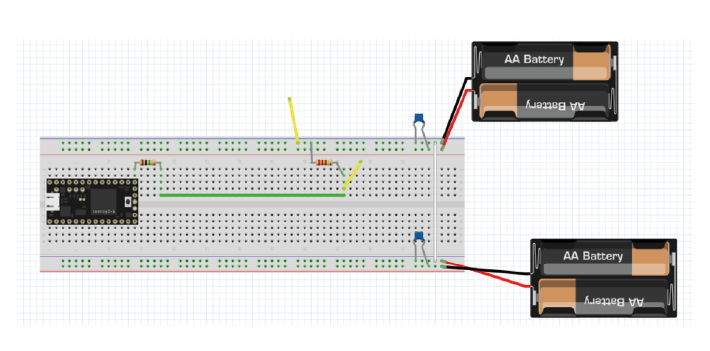
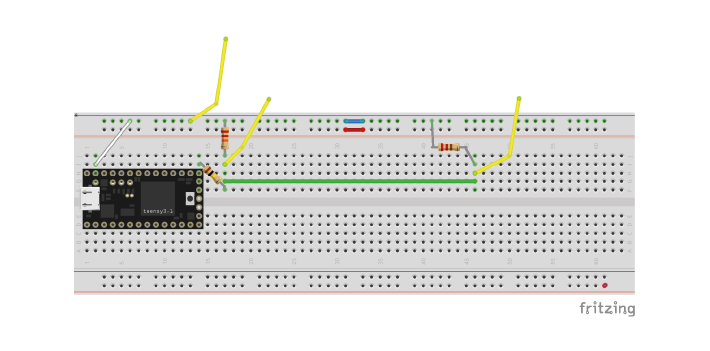
new exercise day 2

diff --git a/source/Materials/exday2TA.rst b/source/Materials/exday2TA.rst
@@ -20,7 +20,7 @@ Exercises Day 2 TA
 1. Impedance Ratios
 ##############################################
 Yesterday, we made the equivalent circuit of a polarising electrode connected to ground.
-Here is that circuit, with shunt capacitance added of 100 pF:
+Here is that circuit, with shunt impedance added of 100 pF:
 
 .. image:: ../_static/images/EEA/day2circuit.png
   :align: center
@@ -28,7 +28,7 @@ Here is that circuit, with shunt capacitance added of 100 pF:
 
 .. container:: exercise
 
-  1A. What is shunt capacitance?
+  1A. What is shunt impedance?
 
   1B. What % of our signal are we losing between Vec and Vin? Why?
 
@@ -42,7 +42,7 @@ Here is that circuit, with shunt capacitance added of 100 pF:
 
    1B: Should be 50 uV left of our 5V signal.
 
-   1C: The capacitor of our electrode and the shunt capacitance are forming a voltage divider. Changing the impedance ratio changes the Vin.
+   1C: The capacitor of our electrode and the shunt impedance are forming a voltage divider. Changing the impedance ratio changes the Vin.
 
    1D: Gold plated electrode circuit: increases capacitance, decreases impedance.  https://tinyurl.com/y5y8chql
    Students can get impedance and capacitance mixed up and forget they go in opposite directions.
@@ -50,7 +50,7 @@ Here is that circuit, with shunt capacitance added of 100 pF:
 
 Drawing Current
 ***********************************
-Let's do a recording! We'll take our electrode, and attach it through a long wire to a recording system (the recording system has an analog to digital converter, ADC, and a recording computer).
+Let's do a recording! We'll take our electrode, and attach it through a long wire to a recording system (the recording system has an analog to digital converter, ADC, and a recording computer). The leakage resistance here is because the recording system is also connected to ground.
 
 .. image:: ../_static/images/EEA/day2withac.png
   :align: center
@@ -73,24 +73,78 @@ Let's do a recording! We'll take our electrode, and attach it through a long wir
 
 2. Operational Amplifiers
 ###################################
-Let’s build this circuit in real life, on the breadboard. We’ll treat the ‘Blink’ example as our neuronal data and see what happens to this signal if we just have a wire, and then see the effect of replacing this wire with an op-amp.
+Let’s build a slightly simplified version of these circuits in real life, on the breadboard. We’ll treat the ‘Blink’ example as our neuronal data and see what happens to this signal if we just have a wire, and then see the effect of replacing this wire with an op-amp. We'll simplify our electrode circuit to a single resistor.
 
-* 'Neuron'  = Digital output from Teensy
-* 'Electrode' = 1 MOhm resistor
+.. image:: ../_static/images/EEA/eea_fig-41.png
+  :align: center
+  :target: https://tinyurl.com/y5b7nfuv
+
+
+* 'Neuron'  = Digital blink output from Teensy
+* 'Electrode' = 100 kOhm resistor
 * 'Shunt' = 22kOhm resistor
+* 'Leak' = 220Ohm resistor
+* 'Recording system' = the Picoscope
+
+Without an amplifier
+************************************
+
+.. container:: exercise
+
+  2A.	Upload the Blink example to your teensy (or just run it if still loaded).
+
+  Build the circuit below:
+
+  * Send the Teensy output through a 100 KOhm resistor. This makes it behave a bit like a biological signal coming from an electrode.
+
+  *	A 22kOhm resistor to ground simulates shunt impedance.
+
+  * A 220 Ohm resistor to ground simulates that your acquisition system is connected to ground (via some resistance).
+
+  *	The yellow wires are 'readout' wires to connect your oscilloscope to.
+
+  .. image:: ../_static/images/EEA/eea_fig-39.png
+    :align: center
+
+  .. image:: ../_static/images/EEA/eea_fig-38.png
+    :align: center
+
+  2B.	Now measure the output with the oscilloscope at the points marked by red arrows in the image below, and complete the first column of the table below:
+
+  .. list-table::
+     :width: 80%
+     :widths: 20 20 20
+     :header-rows: 1
+     :align: left
+
+     * - (+) Probe Location
+       - Long Wire
+       - Op-Amp
+     * - 1. Teensy Pin 13
+       -
+       -
+     * - 2. Readout Wire 1
+       -
+       -
+     * - 3. Readout Wire 2
+       -
+       -
+
+  2C. How much signal is lost?
+
 
 Build voltage rails
 ***********************************
 .. warning::
   Make sure that the pins from the batteries do not touch, and if they’re not in use, best to put some tape on them so they don’t touch things. ‘Short-circuiting’ the batteries (connecting them without any sort of resistance) causes a huge current to flow from the + to -, enough to... melt stuff.
 
-First, we need to make the ‘rails’ that will provide the voltage for our op-amp. Eventually, for our EMG circuit, we will need to have a positive and negative voltage ready, so that we can amplify a signal that lives around some reference level that we shall call 0 volt. If we only have 0 and +3V, then any negative signal will floor and stay at 0.
+Now, we need to make the ‘rails’ that will provide the voltage for our op-amp. Eventually, for our EMG circuit, we will need to have a positive and negative voltage ready, so that we can amplify a signal that lives around some reference level that we shall call 0 volt. If we only have 0 and +3V, then any negative signal will floor and stay at 0.
 
 To do this we use a common trick and turn two regular power supplies into a bipolar power supply. In our case we use batteries, because they’re cheap and pretty much fully noise-free. Check which way up your breadboard is (keep the blue line at the top). Following the figures precisely will make debugging much easier later on.
 
 .. container:: exercise
 
-  2A. Connect the battery holders as follows:
+  2D. Connect the battery holders as follows:
 
   - One pair of batteries provides 3V relative to ground, 0V.
 
@@ -105,67 +159,15 @@ To do this we use a common trick and turn two regular power supplies into a bipo
 
 Add bypass capacitors
 ***********************************
-Bypass capacitors are small capacitors that act like little secondary batteries. In our case we’ll add two 100nF (marked 104) caps, one to each rail, so GND to 3V and GND to -3V. The reason is that the batteries we use have what's called a high ESR - ‘equivalent series resistance’ and some capacitance, so they are not great at quickly providing current. This means that when our op-amp starts working, it can run out of current for a very short time, until the battery can drive the rails back to their original voltage. This is bad for the signal quality and causes all kinds of issues. So, we give the rails the ability to very quickly provide a small amount of current from these small capacitors. We’re exploiting the fact that these caps have very low ESR and can provide current pretty much instantaneously. If the battery briefly can’t provide current, the bypass capacitors will discharge, providing quick back-up current. The fact that they’re too small to power anything for more than a millisecond does not matter here, at that point the batteries have caught up.
+Bypass capacitors are small capacitors that act like little secondary batteries. In our case we’ll add two 100nF (marked 104) caps, one to each rail, so GND to 3V and GND to -3V. The reason is that the batteries we use have what's called a high ESR - ‘equivalent series resistance’ and some capacitance, so they are not great at quickly providing current. This means that when our op-amp starts working, it can run out of current for a very short time, until the battery can drive the rails back to their original voltage. This is bad for the signal quality.
+So, we give the rails the ability to very quickly provide a small amount of current from these small capacitors. We’re exploiting the fact that these caps have very low ESR and can provide current pretty much instantaneously. If the battery briefly can’t provide current, the bypass capacitors will discharge, providing quick back-up current. The fact that they’re too small to power anything for more than a millisecond does not matter here, at that point the batteries have caught up.
 
 .. container:: exercise
 
-  2B. Add two 100nF (marked 104) caps, one to each rail, so connecting GND to 3V and connecting GND to -3V (see image below).
+  2E. Add two 100nF (marked 104) caps, one to each rail, so connecting GND to 3V and connecting GND to -3V (see image below).
 
   .. image:: ../_static/images/EEA/eea_fig-36.png
     :align: center
-
-Build the 'long wire' equivalent circuit
-*************************************************
-We’re going to build the circuit below (note the square wave input, just like the blink example). We’re using resistors to model our electrode and shunt impedance voltage divider. For now, we don't need the voltage rails, they will be used to power our amplifier later.
-
-.. image:: ../_static/images/EEA/eea_fig-37.png
-  :align: center
-
-.. container:: exercise
-
-  2C.	Upload the Blink example to your teensy (or just run it if still loaded).
-
-  Build the circuit below:
-
-  * Send the Teensy output through a 1MOhm resistor. This makes it behave a bit like a biological signal coming from an electrode.
-
-  *	A 22kOhm resistor to ground simulates the signal lost to ground over a really long wire.
-
-  *	Add one ‘readout’ wire connected to ground (for your oscilloscope ground lead)
-
-  *	Connect a second readout wire so that you can measure the output voltage of your system.
-
-  .. image:: ../_static/images/EEA/eea_fig-39.png
-    :align: center
-
-  .. image:: ../_static/images/EEA/eea_fig-38.png
-    :align: center
-
-  2D.	Now measure the output with the oscilloscope at the points marked by red arrows in the image below, and complete the first column of the table below:
-
-  .. image:: ../_static/images/EEA/eea_fig-40.png
-    :align: center
-
-  .. list-table::
-     :width: 80%
-     :widths: 20 20 20
-     :header-rows: 1
-     :align: left
-
-     * - (+) Probe Location
-       - Long Wire
-       - Op-Amp
-     * - 1. Teensy Pin 13
-       -
-       -
-     * - 2. Leg of 1 mOhm Resistor
-       -
-       -
-     * - 3. Readout Wire
-       -
-       -
-
-  2E. How much signal is lost by this ‘recording system’?
 
 Replace the 'long wire' with 'headstage'
 ***********************************************
@@ -192,12 +194,11 @@ This is the op-amp you have.  Make sure you’re looking at the op-amp (LM358P),
   .. image:: ../_static/images/EEA/eea_fig-42.png
     :align: center
 
-  .. image:: ../_static/images/EEA/eea_fig-43.png
+  .. image:: ../_static/images/EEA/eea_fig-40.png
     :align: center
 
 
   2G. Now measure the same three points as before and complete this table:
-
 
   .. list-table::
      :width: 80%
@@ -211,12 +212,14 @@ This is the op-amp you have.  Make sure you’re looking at the op-amp (LM358P),
      * - 1. Teensy Pin 13
        -
        -
-     * - 2. Leg of 1 mOhm Resistor
+     * - 2. Readout Wire 1
        -
        -
-     * - 3. Readout Wire
+     * - 3. Readout Wire 2
        -
        -
+
+   2H. Optional: try changing the resistances you've used for electrode, shunt, and leakage. What happens to the signal?
 
 
 .. admonition:: TA Note

diff --git a/source/Materials/theoryday2.rst b/source/Materials/theoryday2.rst
@@ -54,7 +54,7 @@ The signal |Vec| (V electrode) is measured at the electrode tip. |Vin| is the vo
 
 Why is impedance important?
 ***********************************
-The figure below includes the equivalent circuit of the electrode, as discussed yesterday. The signal |Vec| must travel through the electrode, to |Vin|, the voltage before the acquisition system itself. From there, currents coming from our neurons travel to ground. They can do so either by passing through our acquisition system, or (in parallel) they can be lost to ground through shunt capacitance (|Cs|). Shunt capacitances are created by cables or the sides of electrodes; they are 'accidental' but unavoidable capacitances in the system.
+The figure below includes the equivalent circuit of the electrode, as discussed yesterday. The signal |Vec| must travel through the electrode, to |Vin|, the voltage before the acquisition system itself. From there, currents coming from our neurons travel to ground. They can do so either by passing through our acquisition system, or (in parallel) they can be lost to ground through shunt impedance. Shunt impedance is primarily capacitive (see section below) and represented as (|Cs|). Shunt capacitances are created by cables or the sides of electrodes; they are 'accidental' but unavoidable capacitances in the system.
 
 .. image:: ../_static/images/EEA/eea_fig-9.png
   :align: center
@@ -84,7 +84,7 @@ The ratio of |Ze| and |Za|' therefore determines how much of our electrode tip v
 
 |
 
-If |Za|’ is not substantially greater than |Ze|, |Vin| will be much lower than |Vec|. To have high |Za|’, we need amplifiers with high input impedance and low shunt capacitance (high shunt impedance).
+If |Za|’ is not substantially greater than |Ze|, |Vin| will be much lower than |Vec|. To have high |Za|’, we need amplifiers with high input impedance and high shunt impedance.
 
 Electrode Impedance
 ***********************************
@@ -231,11 +231,3 @@ Our electrodes will be attached to a headstage, which contains an amplifier. Thi
 
   <center><iframe width="560" height="340" src="https://www.youtube.com/embed/NP6nE5P82e8" title="YouTube video player" frameborder="0" allow="accelerometer; autoplay; clipboard-write; encrypted-media; gyroscope; picture-in-picture" allowfullscreen></iframe></center>
   <br>
-
-Here is the simulator circuit used in the video above. You should see that the operational amplifier stops the cable from drawing current from the electrode, and that the operational amplifier instead manages to ‘drive’ the cable effortlessly, by providing a lot of current.
-
-|
-
-.. image:: ../_static/images/EEA/eea_fig-30.png
-  :align: center
-  :target: https://tinyurl.com/ygpje26o
